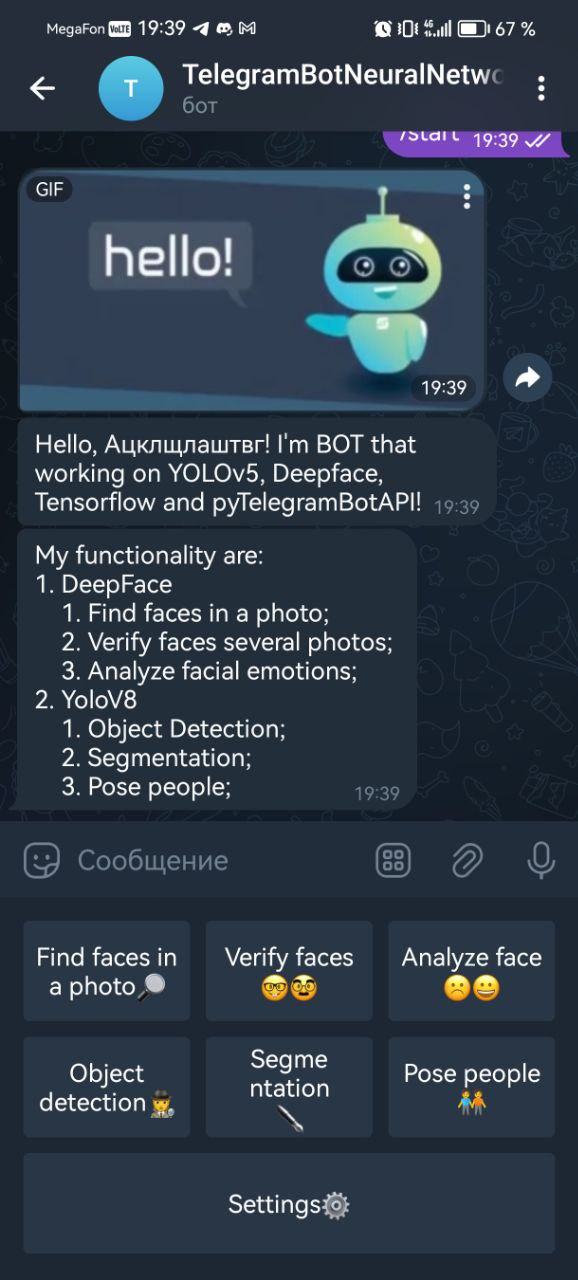
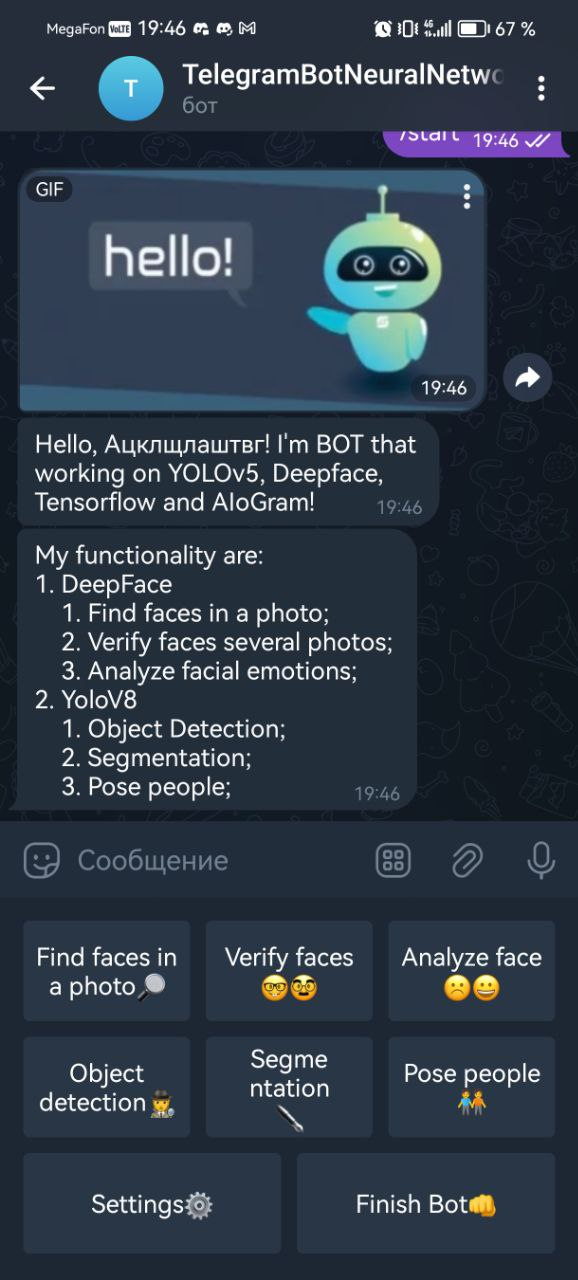
add exit funcition. aiogram. edit start image

diff --git a/aiogram/TelegramBotStart.py b/aiogram/TelegramBotStart.py
@@ -295,6 +295,15 @@ def start_bot(
     async def change_pose_yolo(callback_query: CallbackQuery):
         storage['pose_yolo'] = callback_query.data
         await callback_query.message.edit_text(f"Choosed Pose Yolo Model: {storage['pose_yolo']}")
+    
+
+    # finish him!
+    @dp.message(F.text == 'Finish Bot👊')
+    @session_waiter(bot, storage)
+    async def exit(message: Message):
+        await bot.send_message(message.from_user.id, 'Exiting...')
+        print('Exiting...\n\n')
+        await dp.stop_polling()
 
 
     # starting bot

diff --git a/aiogram/TelegramBotNames.py b/aiogram/TelegramBotNames.py
@@ -50,7 +50,7 @@ pose_yolo_models = [
 text_start_menu = [
     ["Find faces in a photo🔎", "Verify faces🤓🥸", "Analyze face☹😀"],
     ["Object detection🕵", "Segmentation✒", "Pose people🧑🤝🧑"],
-    ["Settings⚙"],
+    ["Settings⚙", 'Finish Bot👊'],
 ]
 buttons_start_menu = [[KeyboardButton(text=text) for text in list_text] for list_text in text_start_menu]
 start_menu = ReplyKeyboardMarkup(keyboard=buttons_start_menu)
